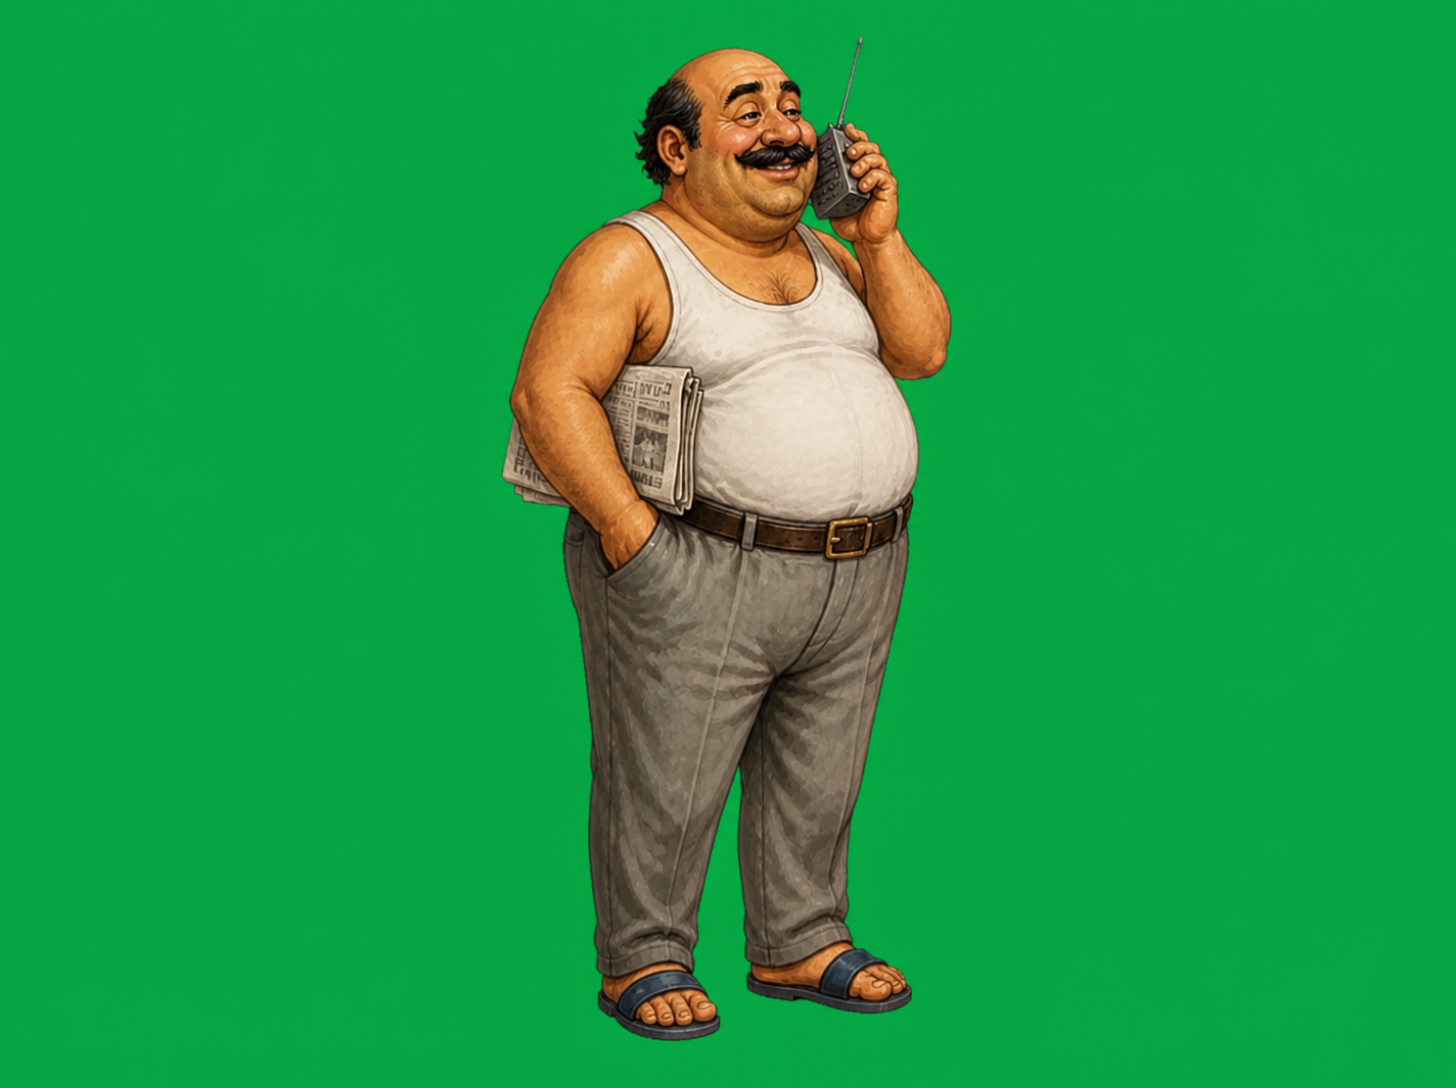
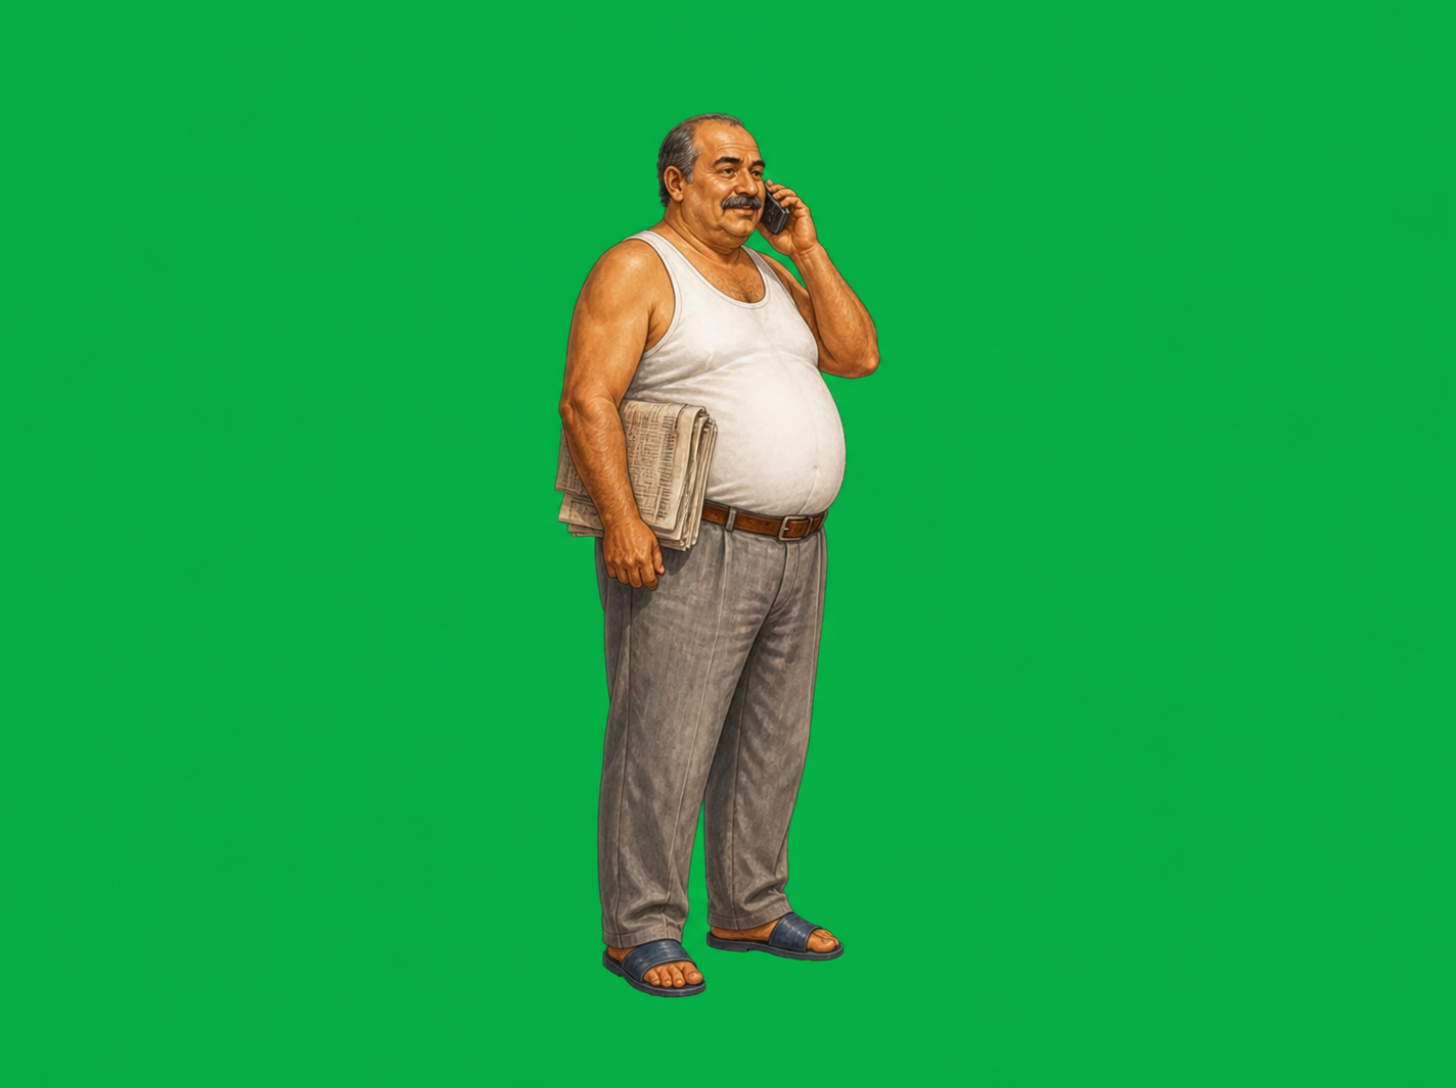
Sequel: Chano repainted again in the cast's realistic style
Claude-Session: https://claude.ai/code/session_016HTeTNSXEDV8gmJrtKWM3n

Changed region(s): [[0.34, 0.0312, 0.6799, 0.9688]]

diff --git a/sequel/art/canva/log.md b/sequel/art/canva/log.md
@@ -38,4 +38,4 @@
 - 2026-10-28 figure `vasco_shirt` Canva media MAHZUqZNGSo -> art/designs/vasco_shirt.png outfit: no blazer/tie/key, sleeves rolled, collar open (from Game I frames, media MAHZUg6pJBM)
 - 2026-10-28 figure `alan_blazer` Canva media MAHZUqNBcR4 -> art/designs/alan_blazer.png outfit: navy brass-button blazer (short sleeves), black vest, jeans, white sneakers
 - 2026-10-28 figure `baute_brown` Canva media MAHZU3l9jr8 -> art/designs/baute_brown.png darker brown suit (from baute_c, media MAHZUl5tBFQ)
-- 2026-10-28 figure `chano_v2` Canva media MAHZU4S4h9s -> art/designs/chano_v2.png repaint: realistic proportions (from scale sheet MAHZUvnUwl4)
+- 2026-10-28 figure `chano_v2` Canva media MAHZU0Ovbn8 -> art/designs/chano_v2.png repaint in the cast's realistic style (Baute as style reference; an earlier try, MAHZU4S4h9s, was still cartoonish)
